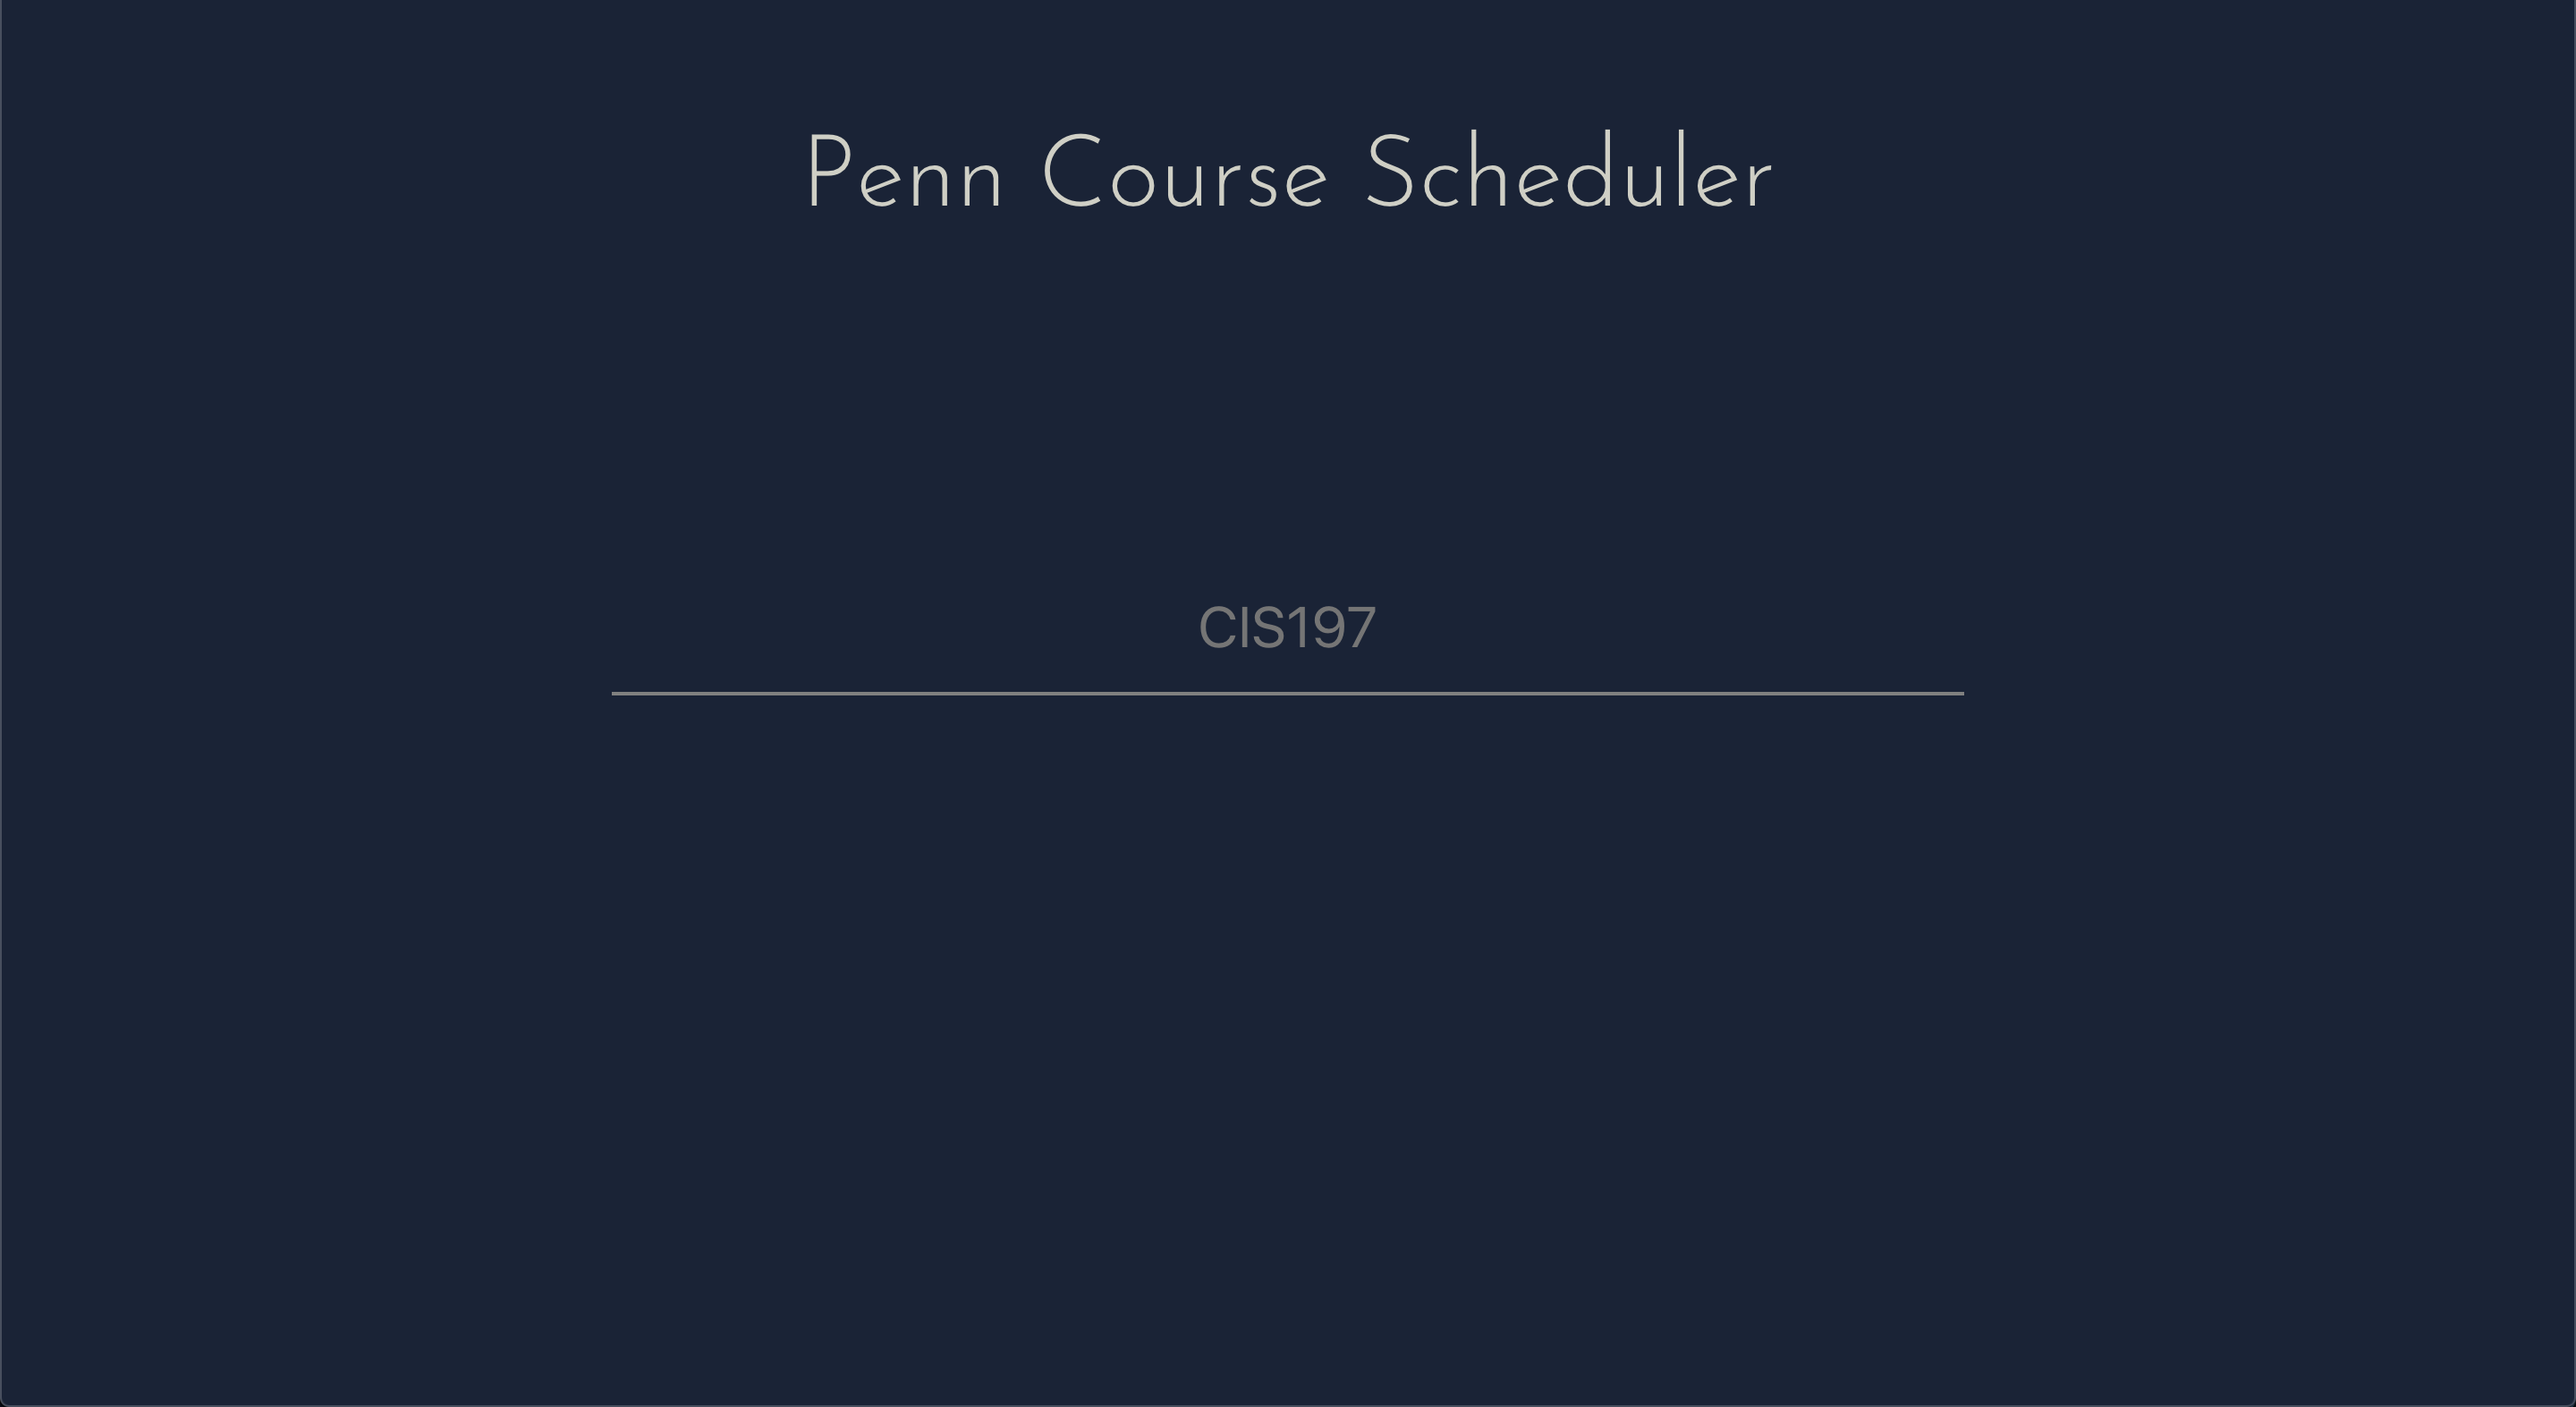
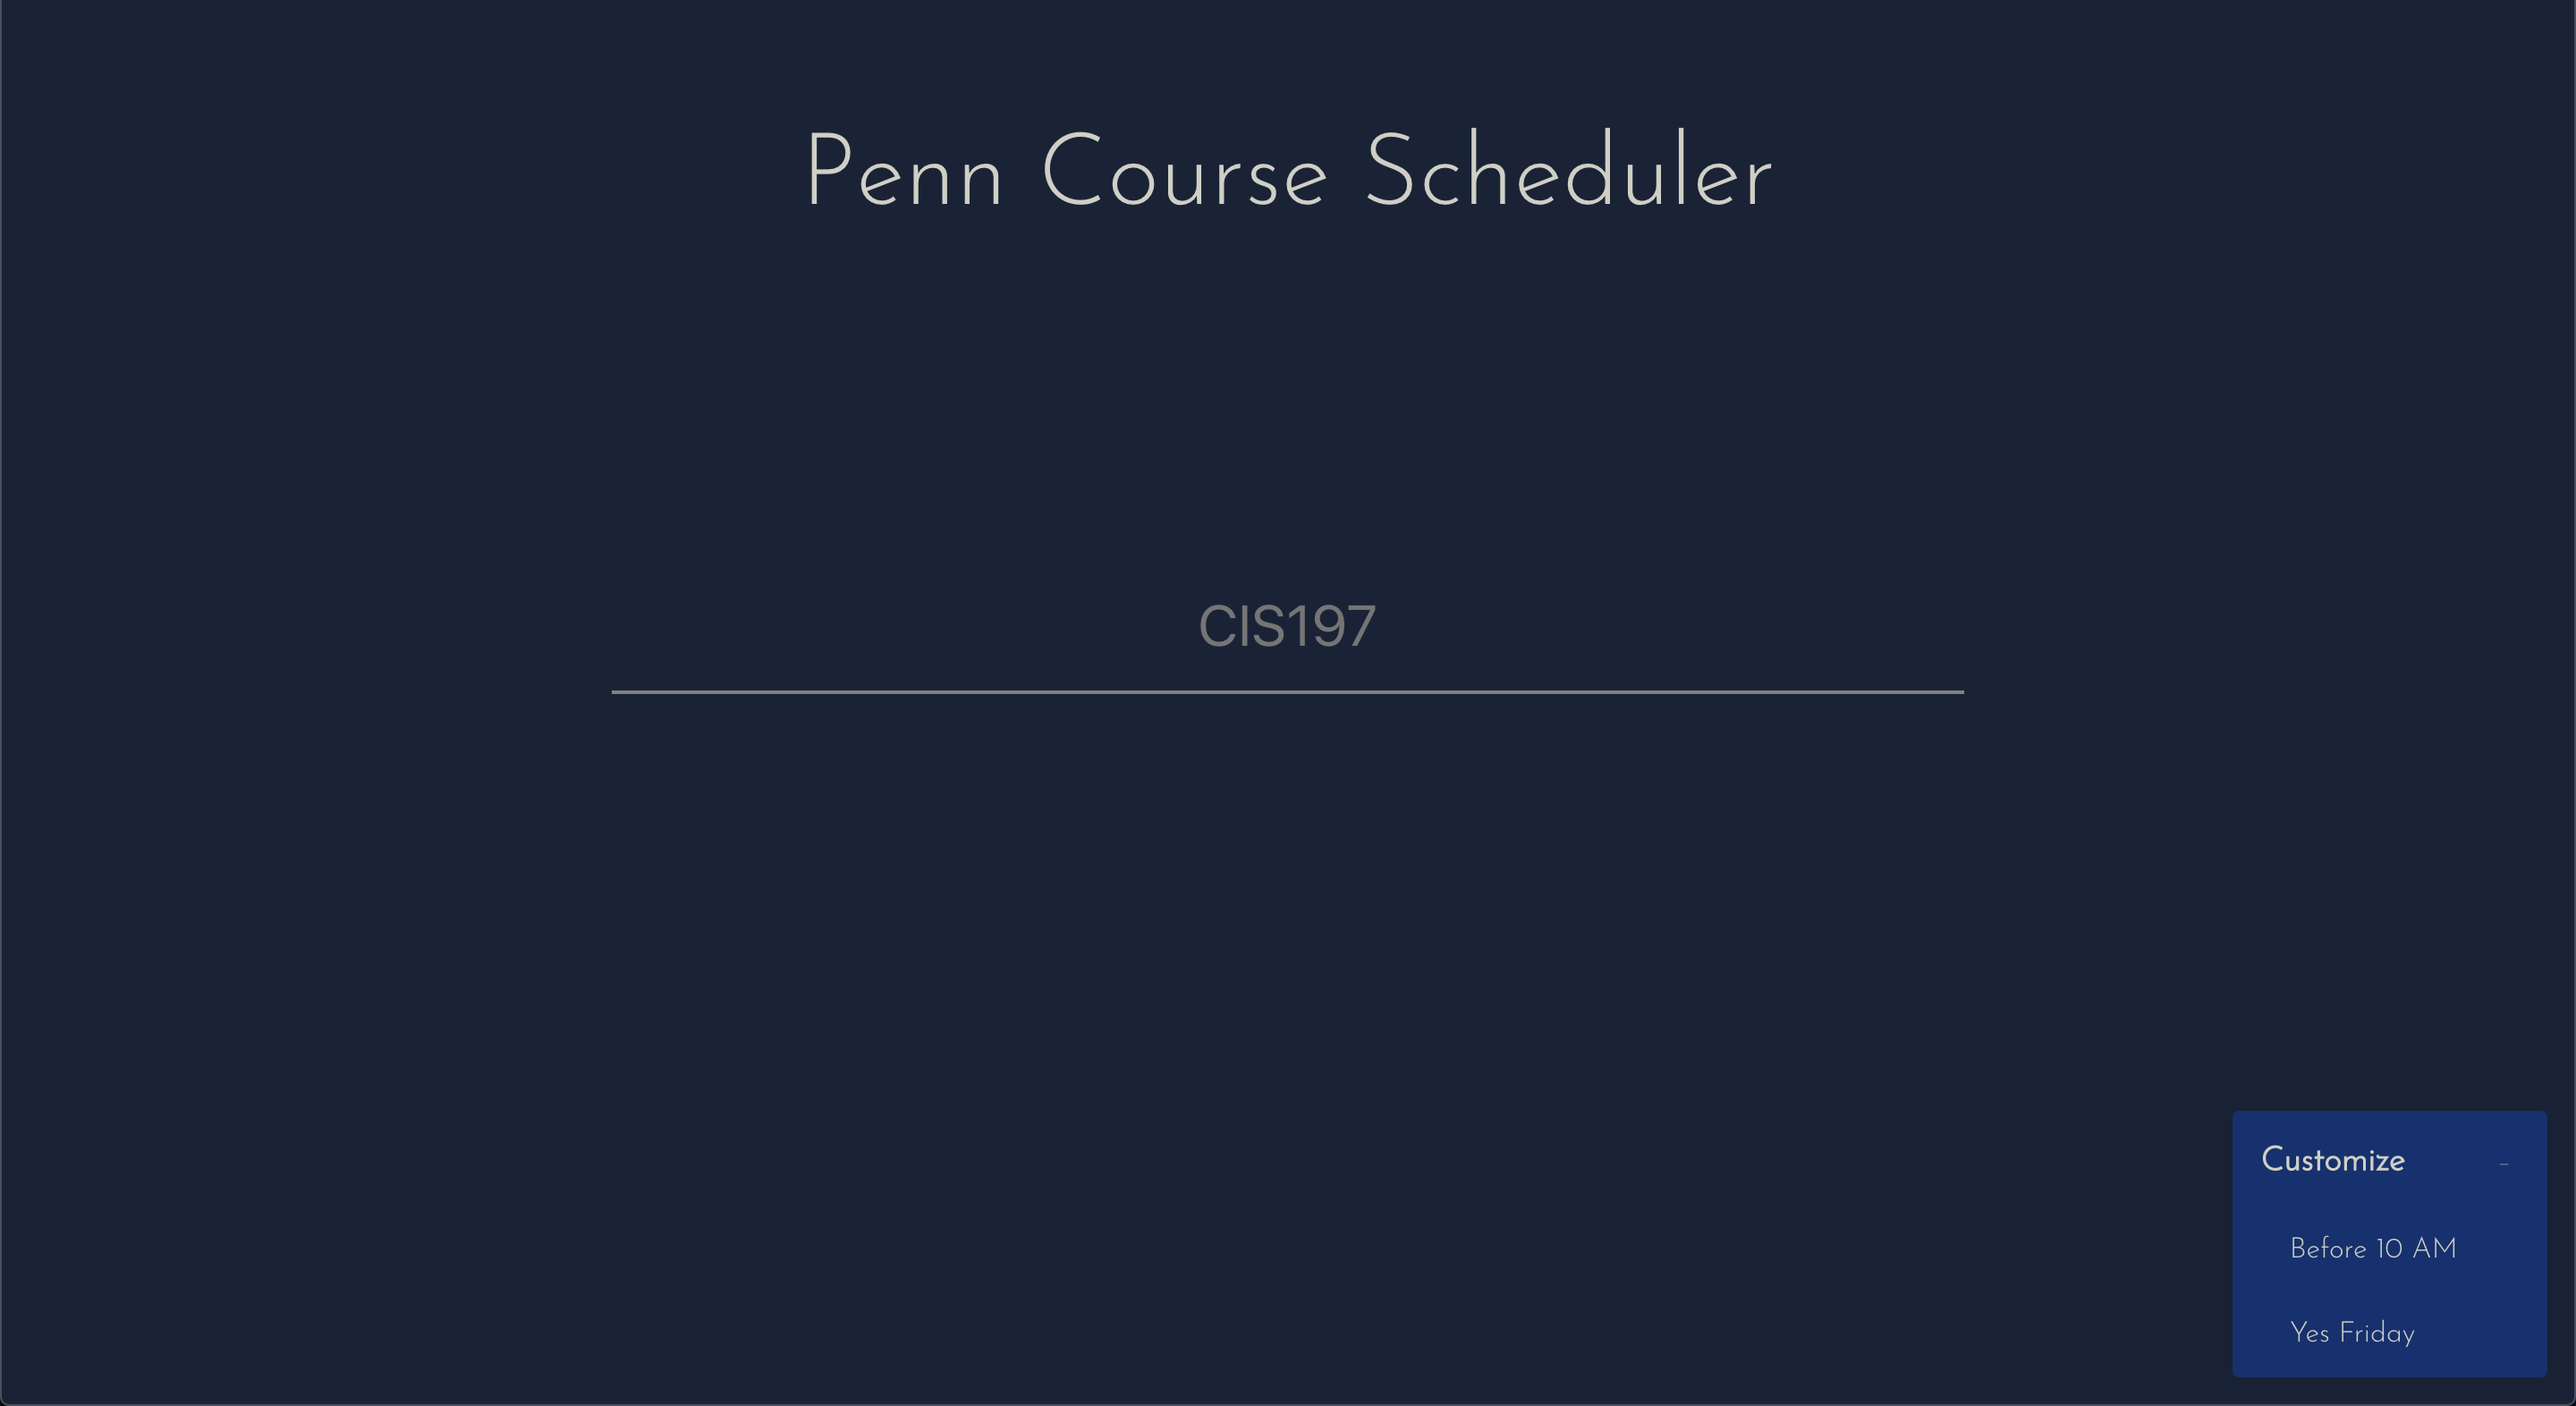
Add customization

diff --git a/frontend/src/components/App.js b/frontend/src/components/App.js
@@ -1,9 +1,10 @@
 import React, { Component } from 'react';
-import './styles/App.css';
-import Calendar from './components/Calendar';
-import api from './utils/api';
+import '../styles/App.css';
+import Calendar from './Calendar';
+import api from '../utils/api';
 import { FontAwesomeIcon } from '@fortawesome/react-fontawesome';
 import { faHome } from '@fortawesome/free-solid-svg-icons';
+import Customization from './Customization';
 
 export default class App extends Component {
   constructor(props) {
@@ -12,11 +13,15 @@ export default class App extends Component {
     this.prevSchedule = this.prevSchedule.bind(this);
     this.nextSchedule = this.nextSchedule.bind(this);
     this.resetState = this.resetState.bind(this);
+    this.toggleTenAM = this.toggleTenAM.bind(this);
+    this.toggleFriday = this.toggleFriday.bind(this);
     this.state = {
       courses: '',
       schedules: [],
       currSchedule: 0,
-      view: 'home'
+      view: 'home',
+      noTenAM: false,
+      noFriday: false
     };
   }
 
@@ -27,7 +32,9 @@ export default class App extends Component {
       const classes = this.state.courses.split(', ');
       const scheduleData = await api.get('/', {
         params: {
-          classes
+          classes,
+          noEarlyClasses: this.state.noTenAM,
+          noFridayClasses: this.state.noFriday
         }
       });
       const { schedules } = scheduleData.data;
@@ -60,15 +67,31 @@ export default class App extends Component {
       view: 'home',
       schedules: [],
       currSchedule: 0,
-      courses: ''
+      courses: '',
+      noTenAM: false,
+      noFriday: false
     });
   }
 
+  toggleTenAM() {
+    this.setState({ noTenAM: !this.state.noTenAM });
+  }
+
+  toggleFriday() {
+    this.setState({ noFriday: !this.state.noFriday });
+  }
+
   render() {
-    const { schedules, currSchedule, view } = this.state;
+    const { schedules, currSchedule, view, noTenAM, noFriday } = this.state;
     if (view === 'home') {
       return (
         <div className="app-container">
+          <Customization
+            noTenAM={noTenAM}
+            noFriday={noFriday}
+            toggleTenAM={this.toggleTenAM}
+            toggleFriday={this.toggleFriday}
+          />
           <div className="app-header">Penn Course Scheduler</div>
           <div className="form">
             <form className="form" onSubmit={this.getCourses}>

diff --git a/frontend/src/components/Customization.js b/frontend/src/components/Customization.js
@@ -1,0 +1,77 @@
+import React, { Component } from 'react';
+import s from 'styled-components';
+
+const Wrapper = s.div`
+  position: fixed;
+  right: 1rem;
+  bottom: 1rem;
+  padding: 0rem 1rem 0 1rem;
+  background: #123072;
+  width: 10%;
+  box-shadow: 0px 0px 24px rgba(0, 0, 0, 0.1);
+  border-radius: 4px;
+
+  p {
+    font-size: 0.8rem;
+    margin-bottom: 1rem;
+  }
+`;
+
+const Close = s.span`
+  position: absolute;
+  right: 20px;
+  top: 25px;
+  opacity: 0.4;
+  transform: translateY(-4px);
+  cursor: hand;
+
+  :hover {
+    opacity: 0.5;
+  }
+
+  ::after {
+    content: "${({ active }) => (active ? '\\2013' : '\\002B')}";
+  }
+`;
+
+const Content = s.div`
+  transition: max-height 0.4s ease;
+  overflow: hidden;
+  max-height: ${({ active }) => (active ? '100vh' : 0)};
+`;
+
+const Title = s.h3`
+  margin-bottom: 1rem;
+`;
+
+export default class Customization extends Component {
+  constructor(props) {
+    super(props);
+    this.state = { active: true };
+    this.toggle = this.toggle.bind(this);
+  }
+
+  toggle() {
+    const { active } = this.state;
+    this.setState({ active: !active });
+  }
+
+  render() {
+    const { active } = this.state;
+    const { noTenAM, toggleTenAM, noFriday, toggleFriday } = this.props;
+    return (
+      <Wrapper>
+        <Close onClick={this.toggle} active={active} />
+        <Title>Customize</Title>
+        <Content active={active}>
+          <button className="toggle" onClick={toggleTenAM}>
+            {noTenAM ? 'After 10 AM' : 'Before 10 AM'}
+          </button>
+          <button className="toggle" onClick={toggleFriday}>
+            {noFriday ? 'No Friday' : 'Yes Friday'}
+          </button>
+        </Content>
+      </Wrapper>
+    );
+  }
+}

diff --git a/backend/index.js b/backend/index.js
@@ -1,6 +1,7 @@
 const express = require('express');
-const getAllCourses = require('./courses.js');
-const getAllSchedules = require('./schedules.js');
+const getAllCourses = require('./utils/courses');
+const getAllSchedules = require('./utils/schedules');
+const customizeCourses = require('./utils/customization');
 const app = express();
 
 // schedules sent back as object: {
@@ -10,9 +11,13 @@ const app = express();
 // http://localhost:8080/schedule?classes[]=cis240&classes[]=cis320&classes[]=stat430&classes[]=ipd509
 app.get('/schedule', async (req, res, next) => {
   try {
-    const courses = await getAllCourses(req.query.classes);
-    const schedules = getAllSchedules(courses);
-    // const output = printSchedules(schedules);
+    const { classes, noEarlyClasses, noFridayClasses } = req.query;
+    const courses = await getAllCourses(classes);
+    const customCourses = customizeCourses(courses, {
+      noEarlyClasses,
+      noFridayClasses
+    });
+    const schedules = getAllSchedules(customCourses);
     res.send({ schedules });
   } catch (err) {
     console.log(err);
@@ -20,6 +25,7 @@ app.get('/schedule', async (req, res, next) => {
   }
 });
 
+// old printing for testing
 const printSchedules = schedules => {
   let toReturn = '';
   schedules.forEach((elt, index) => {

diff --git a/backend/utils/customization.js b/backend/utils/customization.js
@@ -1,0 +1,39 @@
+// takes in customization options and returns courses that follow options
+// current options are: no classes before 10 AM, no classes on Friday
+const customizeCourses = (courses, options) => {
+  const newCourses = [];
+  courses.forEach(course => {
+    const newCourse = [];
+    course.forEach(c => {
+      if (shouldAddClass(options, c)) {
+        newCourse.push(c);
+      }
+    });
+    checkIfCourseIsValid(newCourse);
+    newCourses.push(newCourse);
+  });
+  return newCourses;
+};
+
+const shouldAddClass = (options, c) => {
+  const { noEarlyClasses, noFridayClasses } = options;
+  if (noEarlyClasses === 'true') {
+    if (c.start < 10) {
+      return false;
+    }
+  }
+  if (noFridayClasses === 'true') {
+    if (c.days.includes('F')) {
+      return false;
+    }
+  }
+  return true;
+};
+
+const checkIfCourseIsValid = course => {
+  if (course.length === 0) {
+    throw new Error('Customization Fails');
+  }
+};
+
+module.exports = customizeCourses;

diff --git a/backend/utils/courses.js b/backend/utils/courses.js
@@ -9,6 +9,9 @@ const getAllCourses = async classes => {
   return courses;
 };
 
+// returns array where each elt represents a course
+// each course has an array of times
+// [[c1.lecs], [c1.recs], [c2.lecs]]
 const courseRequest = async course => {
   const data = await axios.get(
     `https://api.pennlabs.org/registrar/search?q=${course}`

diff --git a/frontend/src/styles/App.css b/frontend/src/styles/App.css
@@ -84,5 +84,14 @@ input[type='text']:focus {
   justify-content: center;
   align-items: center;
   flex: 30;
-  background-color: blue;
+}
+
+.toggle {
+  background-color: transparent;
+  font-size: 100%;
+  color: #cfcfc4;
+  border: none;
+  padding: 1%;
+  margin: 10% 10% 10% 10%;
+  font-family: 'Josefin Sans', sans-serif;
 }

diff --git a/frontend/src/index.js b/frontend/src/index.js
@@ -1,6 +1,6 @@
 import React from 'react';
 import ReactDOM from 'react-dom';
 import './styles/index.css';
-import App from './App';
+import App from './components/App';
 
 ReactDOM.render(<App />, document.getElementById('root'));

diff --git a/README.md b/README.md
@@ -6,7 +6,7 @@
 
 **Technologies:** React, Node/Express
 
-**Current Progress:** Express server is finished. It sends a max of 200 schedules. Frontend is finished and is fairly clean/minimal. Currently adding customization options.
+**Current Progress:** Express server is finished. It sends a max of 100 schedules. Frontend is finished and is fairly clean/minimal. Currently adding customization options.
 
 ![Search Screen](/media/home.png)
 
